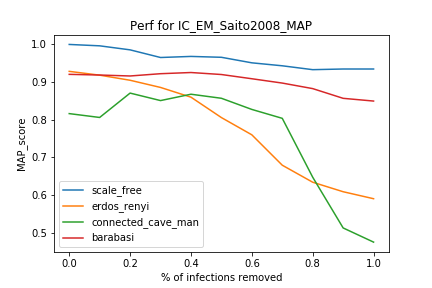
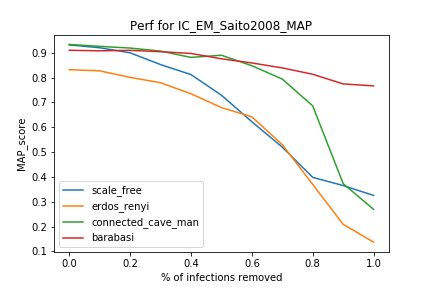
Update Readme (test)

diff --git a/README.md b/README.md
@@ -17,16 +17,21 @@ Les longueurs des cascades ont les distributions suivantes : <br>
 
 ### IC_Sait_EM testing
 
-|          MSE        |   scale_free |   erdos_renyi |   connected_cave_man |   barabasi |
+|      ft_time        |   scale_free |   erdos_renyi |   connected_cave_man |   barabasi |
 |:--------------------|-------------:|--------------:|---------------------:|-----------:|
-| IC_EM_Saito2008     |   0.00172863 |    0.0018261  |           0.00520663 |  0.0142106 |
-| IC_EM_NotContiguous |   0.00471561 |    0.00741874 |           0.0148063  |  0.153406  |
+| IC_EM_Saito2008     |      1.1292  |       2.21677 |              3.14518 |    17.7801 |
+| IC_EM_NotContiguous |      2.63075 |       9.08386 |             16.4362  |    94.44   |
+
+|          MSE        |   scale_free |   erdos_renyi |   connected_cave_man |    barabasi |
+|:--------------------|-------------:|--------------:|---------------------:|------------:|
+| IC_EM_Saito2008     |   0.00076981 |   0.000305587 |          0.000618699 | 0.000302288 |
+| IC_EM_NotContiguous |   0.00462008 |   0.000657692 |          0.00700983  | 0.0102686   |
 
 |           MAP       |   scale_free |   erdos_renyi |   connected_cave_man |   barabasi |
 |:--------------------|-------------:|--------------:|---------------------:|-----------:|
-| IC_EM_Saito2008     |     0.982853 |      0.849562 |             0.840047 |   0.891198 |
-| IC_EM_NotContiguous |     0.979134 |      0.656865 |             0.726627 |   0.71513  |
-| original            |     0.980544 |      0.905014 |             0.933889 |   0.951407 |
+| IC_EM_Saito2008     |     0.932048 |      0.832114 |             0.933914 |   0.910368 |
+| IC_EM_NotContiguous |     0.940792 |      0.831434 |             0.929024 |   0.891969 |
+| original            |     0.924822 |      0.829797 |             0.93239  |   0.910568 |
 
 ### Missing user testing
 

diff --git a/IC_SAITO/data/eval/MSE.md b/IC_SAITO/data/eval/MSE.md
@@ -1,4 +1,4 @@
-|                     |   scale_free |   erdos_renyi |   connected_cave_man |   barabasi |
-|:--------------------|-------------:|--------------:|---------------------:|-----------:|
-| IC_EM_Saito2008     |   0.00187166 |    0.00180245 |            0.0048474 |   0.014316 |
-| IC_EM_NotContiguous |   0.00350049 |    0.00475836 |            0.0164662 |   0.151803 |
+|                     |   scale_free |   erdos_renyi |   connected_cave_man |    barabasi |
+|:--------------------|-------------:|--------------:|---------------------:|------------:|
+| IC_EM_Saito2008     |   0.00076981 |   0.000305587 |          0.000618699 | 0.000302288 |
+| IC_EM_NotContiguous |   0.00462008 |   0.000657692 |          0.00700983  | 0.0102686   |

diff --git a/IC_SAITO/data/eval/MAP.md b/IC_SAITO/data/eval/MAP.md
@@ -1,5 +1,5 @@
 |                     |   scale_free |   erdos_renyi |   connected_cave_man |   barabasi |
 |:--------------------|-------------:|--------------:|---------------------:|-----------:|
-| IC_EM_Saito2008     |     0.997631 |      0.926775 |             0.815512 |   0.918886 |
-| IC_EM_NotContiguous |     0.995958 |      0.860081 |             0.734667 |   0.648006 |
-| original            |     0.995998 |      0.929336 |             0.932488 |   0.950368 |
+| IC_EM_Saito2008     |     0.932048 |      0.832114 |             0.933914 |   0.910368 |
+| IC_EM_NotContiguous |     0.940792 |      0.831434 |             0.929024 |   0.891969 |
+| original            |     0.924822 |      0.829797 |             0.93239  |   0.910568 |

diff --git a/IC_SAITO/data/eval/fit_time.md b/IC_SAITO/data/eval/fit_time.md
@@ -1,4 +1,4 @@
 |                     |   scale_free |   erdos_renyi |   connected_cave_man |   barabasi |
 |:--------------------|-------------:|--------------:|---------------------:|-----------:|
-| IC_EM_Saito2008     |     0.402367 |      0.406895 |             0.424386 |    2.02958 |
-| IC_EM_NotContiguous |     0.392356 |      0.477443 |             1.60399  |    1.9971  |
+| IC_EM_Saito2008     |      1.1292  |       2.21677 |              3.14518 |    17.7801 |
+| IC_EM_NotContiguous |      2.63075 |       9.08386 |             16.4362  |    94.44   |
